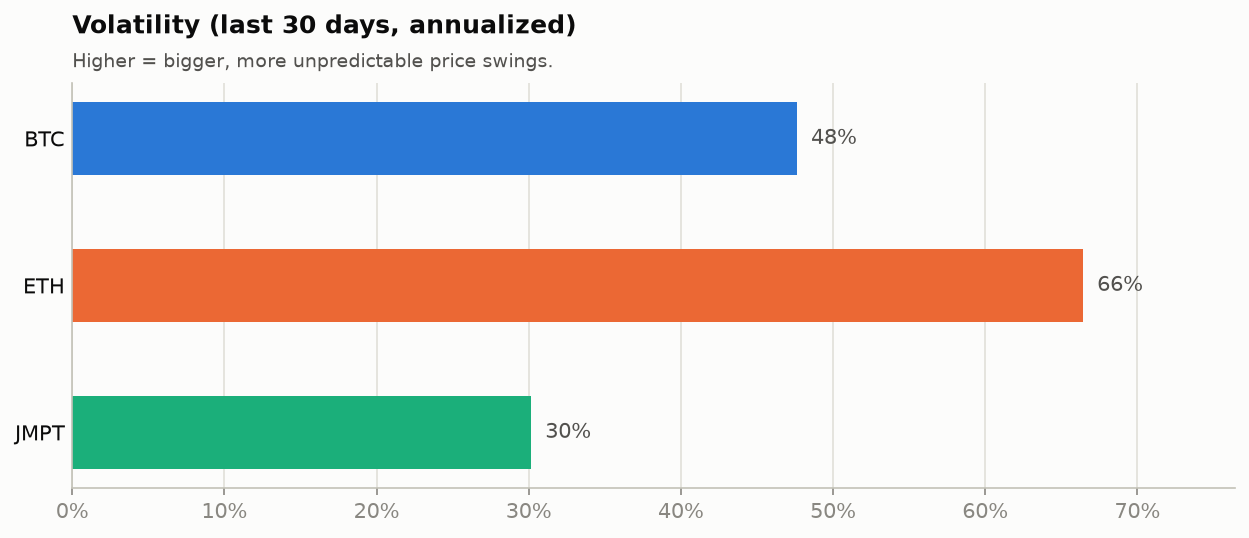
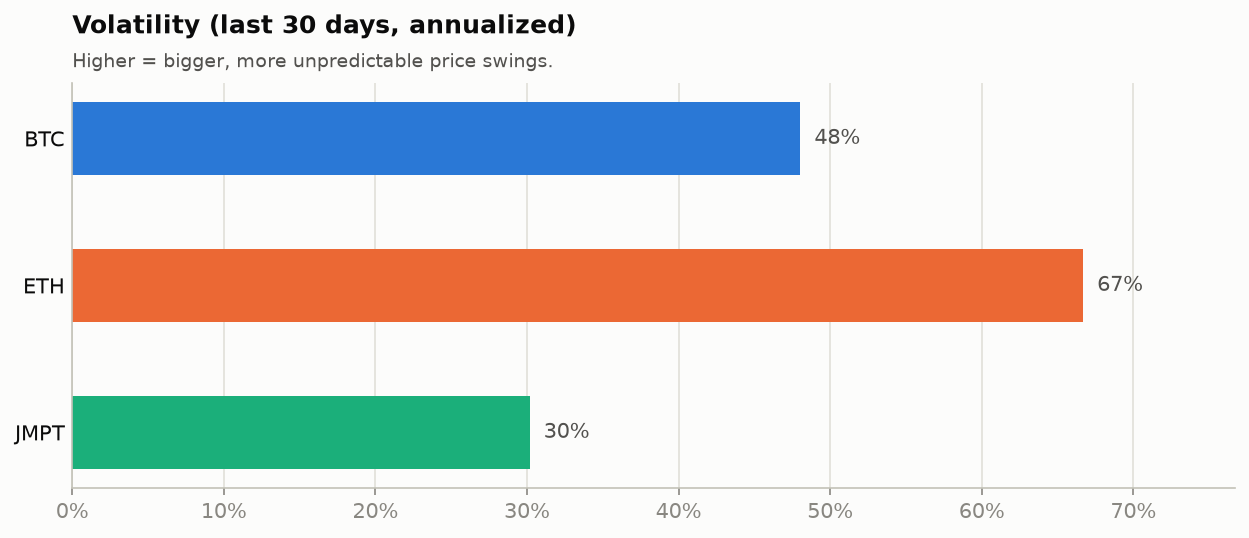
data: market update 2026-11-26

diff --git a/README.md b/README.md
@@ -9,13 +9,13 @@ The project compares two of the largest cryptocurrencies with a small-cap token:
 ## Latest stats
 
 <!-- STATS:START -->
-_Snapshot as of **2026-11-25 00:00 UTC**. Updated automatically every day._
+_Snapshot as of **2026-11-26 00:00 UTC**. Updated automatically every day._
 
 | Coin | Price | 1 day | 7 days | 30 days | 1 year | Volatility (30d) | Market cap |
 |:--|--:|--:|--:|--:|--:|--:|--:|
-| **BTC** Bitcoin | $59,759 | ▼ -2.4% | ▼ -7.9% | ▼ -25.3% | ▼ -32.3% | 48% | $1.20T |
-| **ETH** Ethereum | $1,678 | ▼ -1.8% | ▼ -8.0% | ▼ -27.9% | ▼ -43.2% | 66% | $205.13B |
-| **JMPT** JumpToken | $0.4419 | ▼ -0.9% | ▼ -4.8% | ▼ -17.3% | ▼ -43.0% | 30% | $6.52M |
+| **BTC** Bitcoin | $60,374 | ▲ +1.0% | ▼ -4.2% | ▼ -24.6% | ▼ -30.9% | 48% | $1.21T |
+| **ETH** Ethereum | $1,691 | ▲ +0.7% | ▼ -4.8% | ▼ -27.2% | ▼ -42.9% | 67% | $206.67B |
+| **JMPT** JumpToken | $0.4431 | ▲ +0.3% | ▼ -3.5% | ▼ -17.3% | ▼ -42.9% | 30% | $6.54M |
 <!-- STATS:END -->
 
 ## Charts
